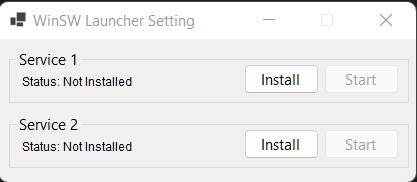
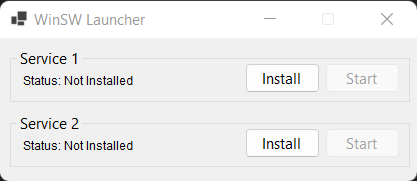
fix settings and readme

diff --git a/README.md b/README.md
@@ -12,7 +12,7 @@ Launcher for popular [WinSW](https://github.com/winsw/winsw) service wrapper.
 update <strong>appconfigs.json</strong> to customize WinSWLauncher
 ```
 {
-  "title": "WinSW Launcher Setting", // Form Title
+  "title": "WinSW Launcher", // Form Title
   "services": [
     {
       "display": "Service 1", // service display name in form
